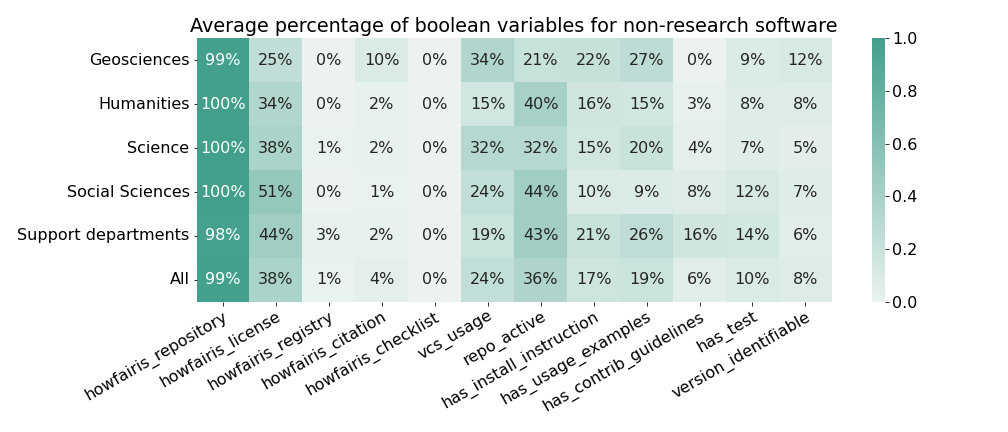
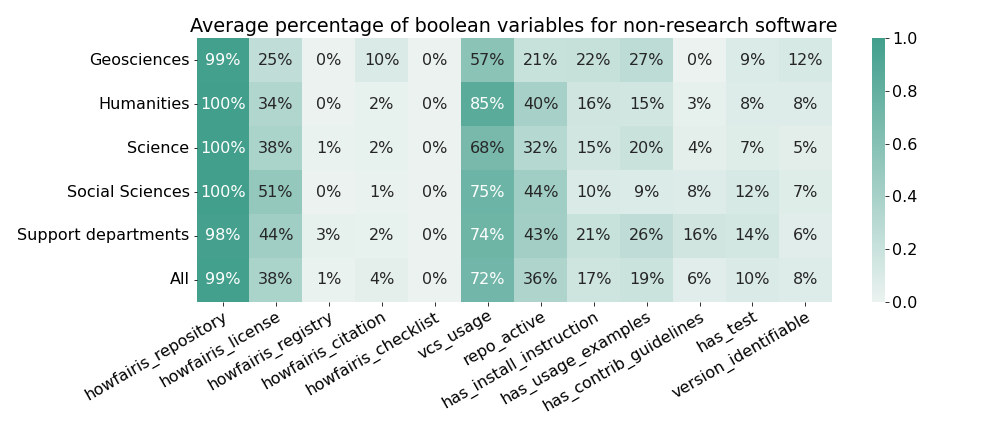
Update plots and graphs for vcs_usage change

Changed region(s): [[0.4306, 0.0903, 0.5228, 0.7222]]

diff --git a/tables/stats_vif.tex b/tables/stats_vif.tex
@@ -7,21 +7,21 @@
                 Feature &  VIF \\
 \midrule
        stargazers\_count & 3.87 \\
-            open\_issues & 2.15 \\
+            open\_issues & 2.21 \\
                   forks & 4.46 \\
                    size & 1.23 \\
      contributors\_count & 3.29 \\
-        languages\_count & 2.63 \\
+        languages\_count & 2.93 \\
            topics\_count & 1.56 \\
-              life\_span & 2.36 \\
-      howfairis\_license & 2.19 \\
+              life\_span & 2.35 \\
+      howfairis\_license & 2.42 \\
      howfairis\_registry & 1.41 \\
      howfairis\_citation & 1.42 \\
     howfairis\_checklist & 1.16 \\
-              vcs\_usage & 1.10 \\
-            repo\_active & 1.69 \\
-has\_install\_instruction & 2.06 \\
-     has\_usage\_examples & 1.76 \\
+              vcs\_usage & 3.65 \\
+            repo\_active & 1.88 \\
+has\_install\_instruction & 2.08 \\
+     has\_usage\_examples & 1.77 \\
  has\_contrib\_guidelines & 1.31 \\
                has\_test & 1.70 \\
    version\_identifiable & 1.74 \\
